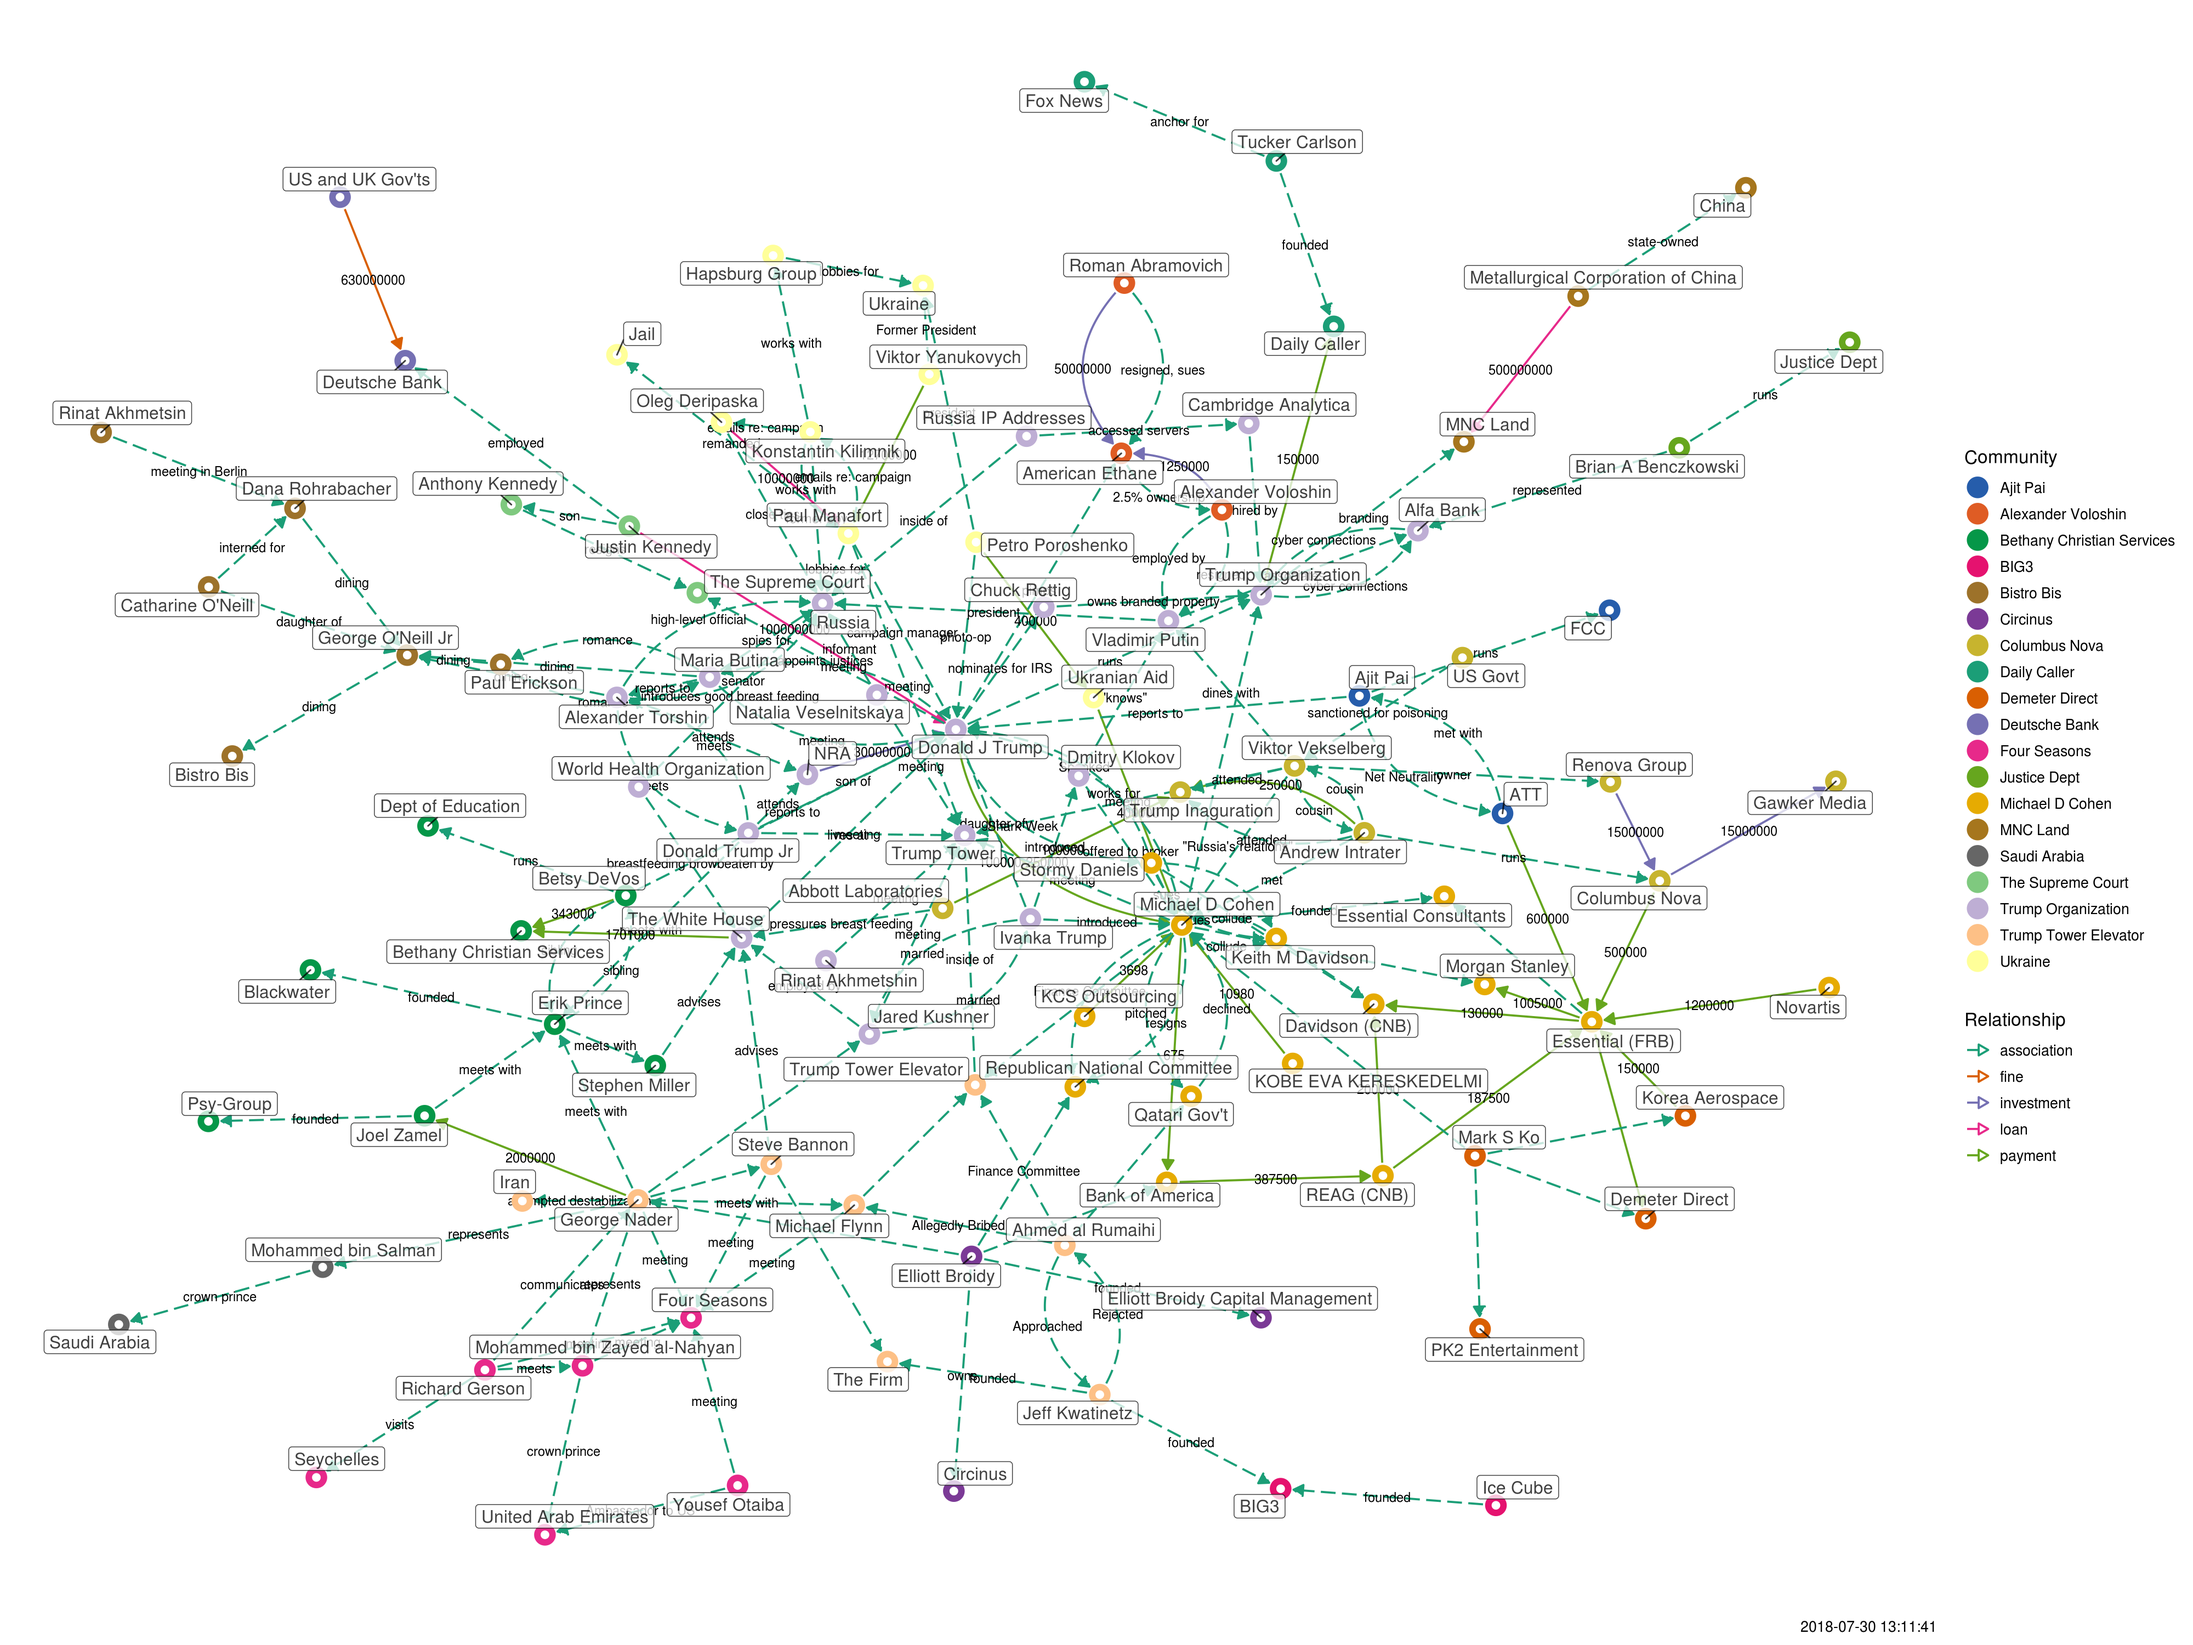
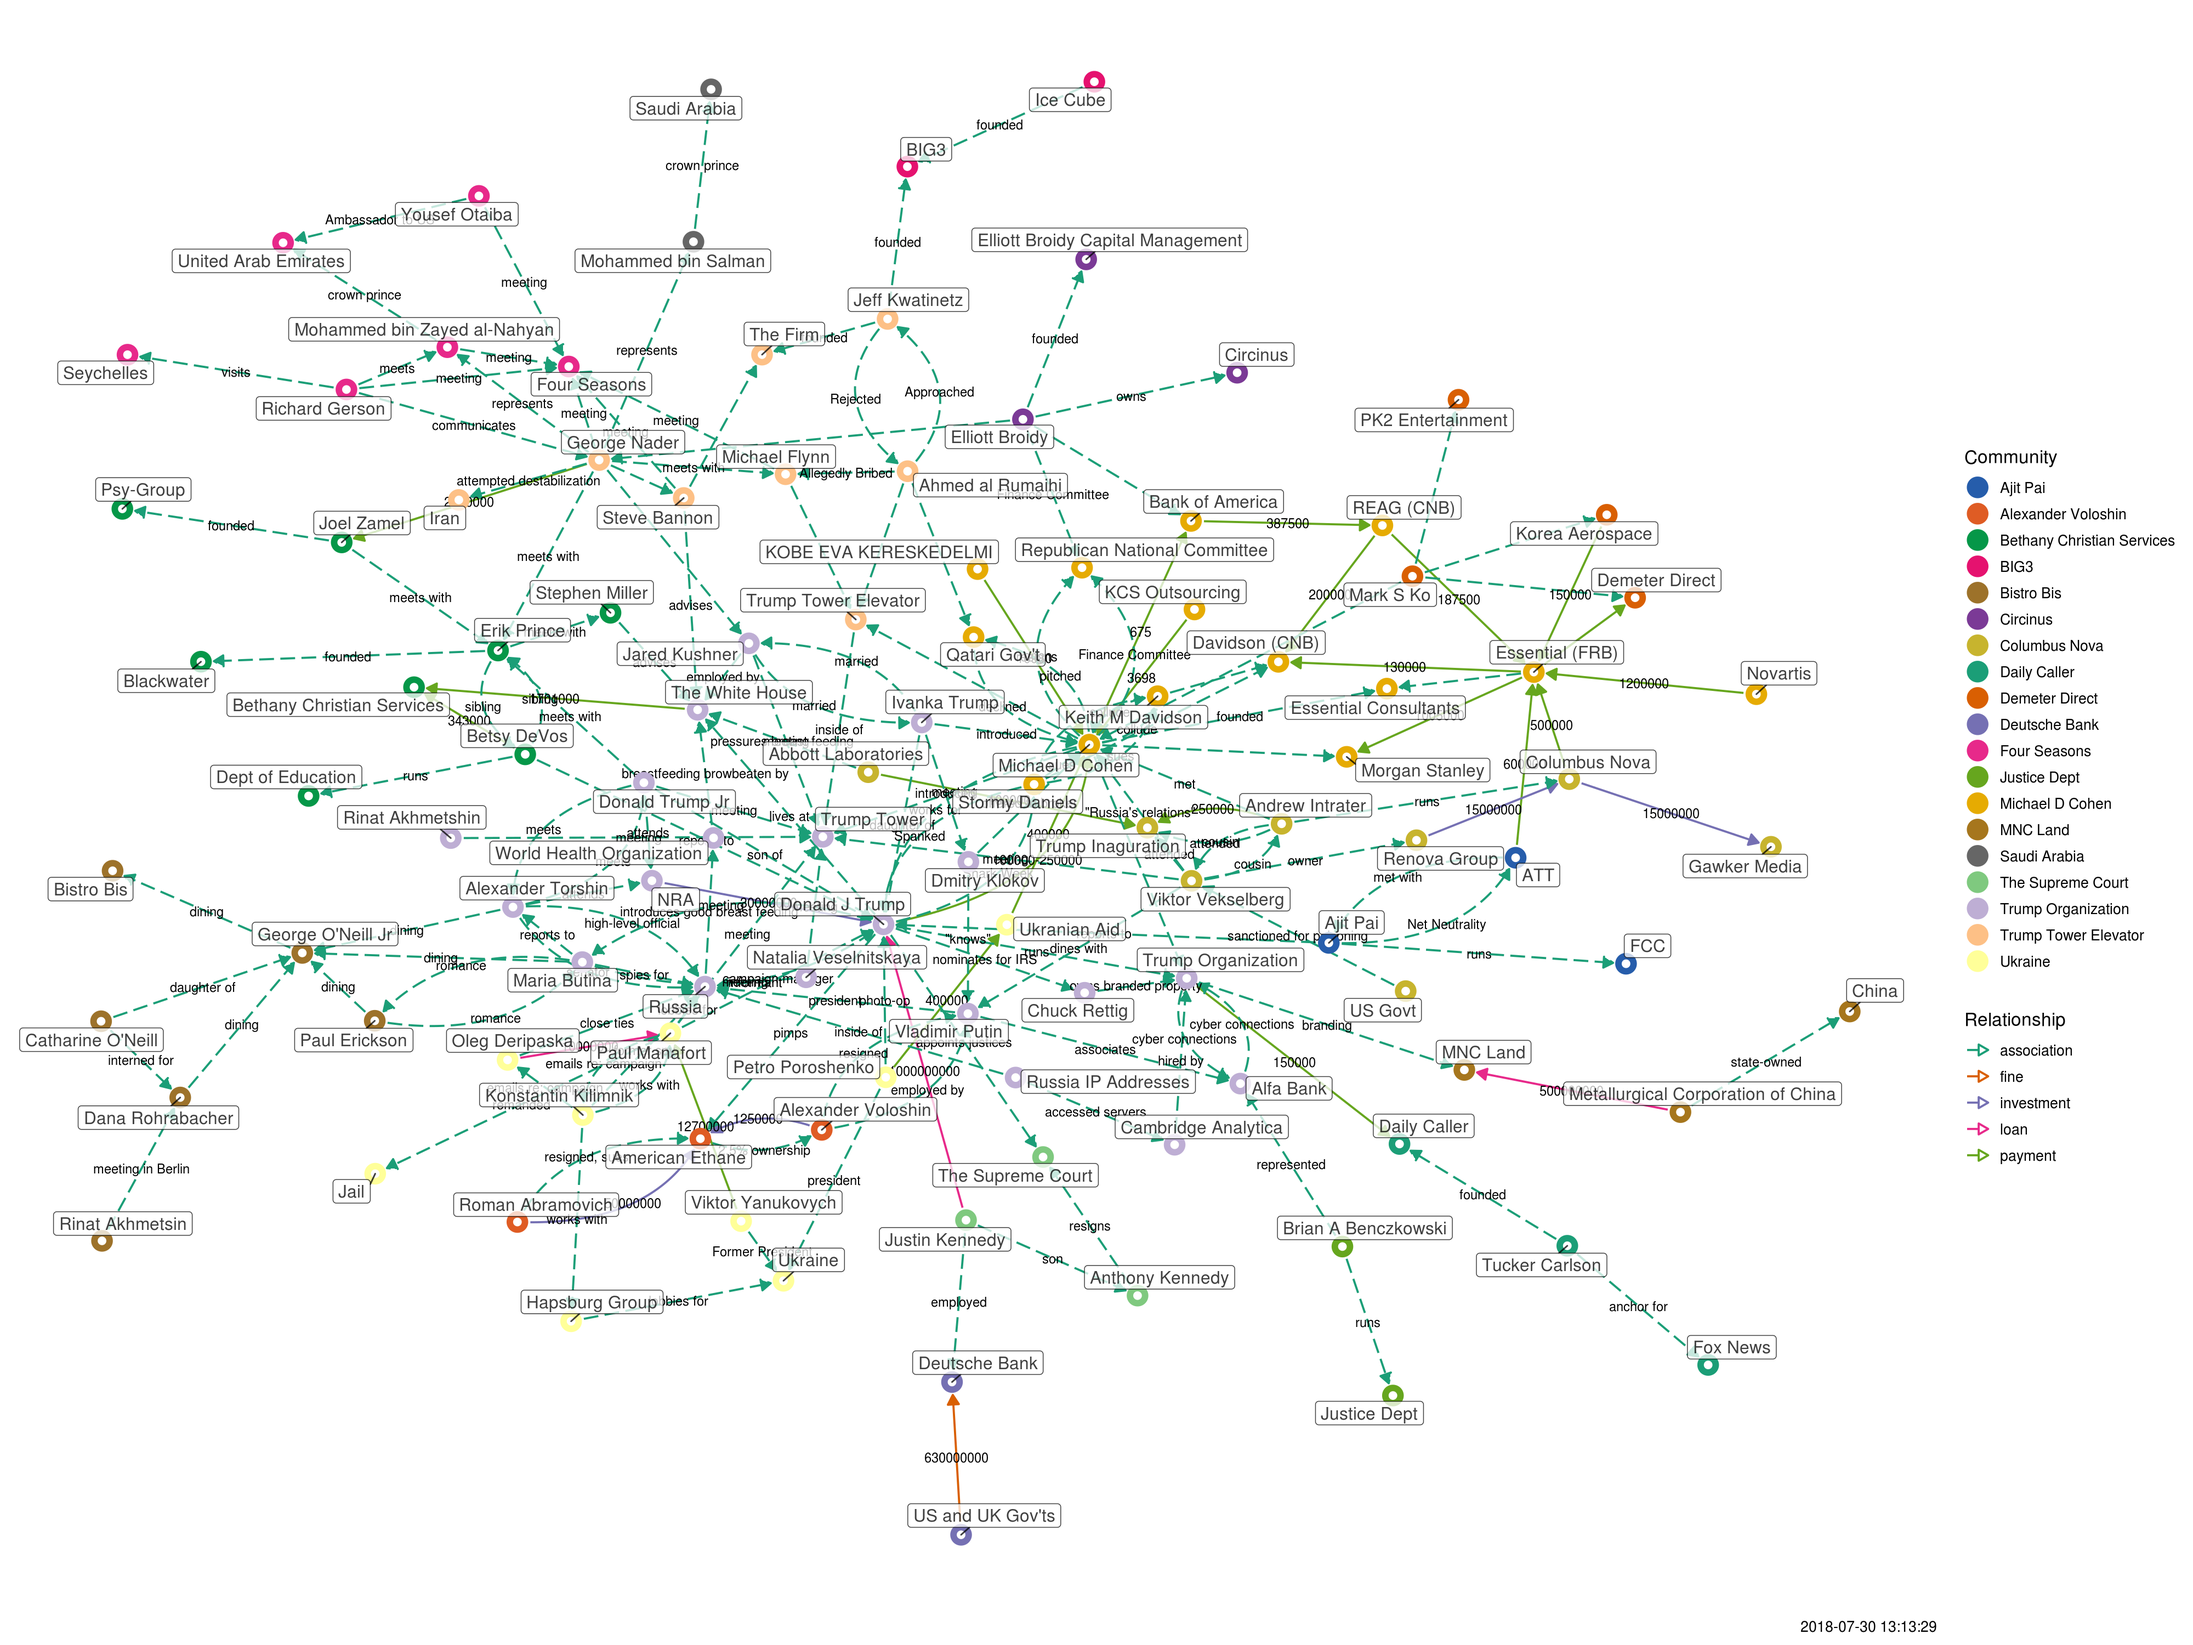
updated

diff --git a/docs/tangled-d3.html b/docs/tangled-d3.html
@@ -9,11 +9,11 @@
 </head>
 <body style="background-color: white;">
 <div id="htmlwidget_container">
-<div id="htmlwidget-cee62667912ef380667b" class="forceNetwork html-widget" style="width:960px;height:500px;">
+<div id="htmlwidget-7b728cc30008b709caf0" class="forceNetwork html-widget" style="width:960px;height:500px;">
 
 </div>
 </div>
-<script type="application/json" data-for="htmlwidget-cee62667912ef380667b">{"x":{"links":{"source":[0,1,2,3,4,5,6,6,7,8,8,8,9,10,11,12,13,14,15,16,17,18,19,20,20,21,22,23,24,25,26,27,8,15,2,2,28,2,28,28,2,29,15,30,31,31,28,32,32,32,32,15,7,7,31,15,15,33,33,33,33,7,15,34,35,35,36,37,36,36,38,35,35,39,39,39,3,38,32,9,9,40,40,41,41,15,42,43,43,9,44,45,46,9,9,47,48,46,49,45,9,9,44,46,5,5,5,24,14,19,19,15,28,28,50,51,51,51,51,9,48,34,38,52,52,41,41,53,53,31,31,15,30,54,55,54,56,57,56,54,56,56,44,40,58,59,59,27,18,56,54,7,60,15,61,10,10,7,0,62,63,7,1,1,64,22,65,65,57,66,24,67,68,68,69,7,69,69,70,69,71,70,44,44,70,70,70,69,72,71,73,73,74,75],"target":[76,64,76,8,20,77,8,78,15,79,80,81,45,7,15,15,8,82,4,8,7,56,25,79,8,6,64,77,83,15,84,56,85,85,6,15,21,28,2,76,76,28,7,79,79,30,57,86,87,88,4,81,23,31,7,24,86,80,89,15,13,24,50,50,50,36,35,90,91,90,91,42,34,3,7,92,39,23,9,38,40,23,41,40,7,42,15,83,93,46,46,46,94,48,47,95,96,49,23,97,34,98,7,5,46,99,7,82,100,7,101,102,102,15,102,103,48,9,104,104,104,104,104,104,96,15,53,15,57,30,15,30,15,55,101,56,63,63,7,63,105,102,102,102,102,102,63,101,63,54,18,60,24,86,106,61,84,106,23,23,62,64,57,57,1,64,66,107,66,24,66,24,67,63,7,69,63,70,63,71,69,44,70,17,17,63,75,75,75,75,75,72,72,108],"colour":["red","blue","red","red","red","red","red","blue","red","red","red","red","red","blue","red","red","red","blue","red","red","blue","blue","red","red","red","blue","blue","red","red","red","blue","red","blue","blue","blue","blue","blue","blue","blue","blue","blue","blue","blue","blue","blue","blue","blue","blue","blue","blue","blue","blue","blue","blue","blue","blue","blue","blue","blue","blue","blue","blue","blue","blue","blue","blue","blue","blue","blue","blue","blue","blue","blue","blue","blue","blue","blue","blue","blue","blue","blue","blue","blue","blue","blue","blue","blue","blue","blue","blue","blue","blue","blue","blue","blue","blue","blue","blue","blue","blue","blue","blue","blue","blue","blue","blue","blue","blue","blue","blue","blue","blue","blue","blue","blue","blue","blue","blue","blue","blue","blue","blue","blue","blue","blue","blue","blue","blue","blue","blue","blue","blue","blue","blue","blue","blue","blue","blue","blue","blue","blue","blue","blue","blue","blue","blue","blue","blue","blue","blue","blue","blue","blue","blue","blue","blue","blue","blue","blue","blue","blue","blue","blue","blue","blue","blue","blue","blue","blue","blue","blue","blue","blue","blue","blue","blue","blue","blue","blue","blue","blue","blue","blue","blue","blue","blue","blue","blue","blue","blue","blue","blue","blue","blue"]},"nodes":{"name":["Abbott Laboratories","Alexander Voloshin","Andrew Intrater","ATT","Bank of America","Betsy DeVos","Columbus Nova","Donald J Trump","Essential (FRB)","George Nader","Justin Kennedy","KCS Outsourcing","KOBE EVA KERESKEDELMI","Korea Aerospace","Metallurgical Corporation of China","Michael D Cohen","Novartis","NRA","Oleg Deripaska","Petro Poroshenko","REAG (CNB)","Renova Group","Roman Abramovich","The White House","Trump Organization","Ukranian Aid","US and UK Gov'ts","Viktor Yanukovych","Viktor Vekselberg","US Govt","Keith M Davidson","Stormy Daniels","Elliott Broidy","Mark S Ko","Michael Flynn","Ahmed al Rumaihi","Jeff Kwatinetz","Ice Cube","Steve Bannon","Ajit Pai","Jared Kushner","Ivanka Trump","Qatari Gov't","Tucker Carlson","Donald Trump Jr","Joel Zamel","Erik Prince","Mohammed bin Salman","Mohammed bin Zayed al-Nahyan","Stephen Miller","Trump Tower Elevator","Richard Gerson","Yousef Otaiba","Dmitry Klokov","Konstantin Kilimnik","Hapsburg Group","Paul Manafort","Vladimir Putin","Rinat Akhmetshin","Natalia Veselnitskaya","Chuck Rettig","Anthony Kennedy","World Health Organization","Russia","American Ethane","Brian A Benczkowski","Alfa Bank","Cambridge Analytica","Russia IP Addresses","Maria Butina","Alexander Torshin","Paul Erickson","Dana Rohrabacher","Catharine O'Neill","Rinat Akhmetsin","George O'Neill Jr","Trump Inaguration","Bethany Christian Services","Gawker Media","Davidson (CNB)","Demeter Direct","Morgan Stanley","MNC Land","Daily Caller","Deutsche Bank","Essential Consultants","Republican National Committee","Elliott Broidy Capital Management","Circinus","PK2 Entertainment","BIG3","The Firm","FCC","Fox News","Blackwater","Saudi Arabia","United Arab Emirates","Psy-Group","Iran","Dept of Education","China","Ukraine","Trump Tower","Seychelles","Four Seasons","Jail","The Supreme Court","Justice Dept","Bistro Bis"],"group":["5","14","5","12","2","4","5","1","2","6","13","2","2","9","10","2","2","1","3","3","2","5","14","1","1","3","19","3","5","5","2","2","15","9","6","6","6","18","6","12","1","1","2","11","1","4","4","16","8","4","6","8","8","1","3","3","3","1","1","1","1","13","1","1","14","17","1","1","1","1","1","7","7","7","7","7","5","4","5","2","9","2","10","11","19","2","2","15","15","9","18","6","12","11","4","16","8","4","6","4","10","3","1","8","8","3","13","17","7"]},"options":{"NodeID":"name","Group":"group","colourScale":"d3.scaleOrdinal(d3.schemeCategory20);","fontSize":20,"fontFamily":"serif","clickTextSize":50,"linkDistance":50,"linkWidth":"function(d) { return Math.sqrt(d.value); }","charge":-100,"opacity":1,"zoom":true,"legend":false,"arrows":false,"nodesize":false,"radiusCalculation":" Math.sqrt(d.nodesize)+6","bounded":false,"opacityNoHover":1,"clickAction":null}},"evals":[],"jsHooks":[]}</script>
-<script type="application/htmlwidget-sizing" data-for="htmlwidget-cee62667912ef380667b">{"viewer":{"width":450,"height":350,"padding":10,"fill":true},"browser":{"width":960,"height":500,"padding":10,"fill":true}}</script>
+<script type="application/json" data-for="htmlwidget-7b728cc30008b709caf0">{"x":{"links":{"source":[0,1,2,3,4,5,6,6,7,8,8,8,9,10,11,12,13,14,15,16,17,18,19,20,20,21,22,23,24,25,26,27,8,15,2,2,28,2,28,28,2,29,15,30,31,31,28,32,32,32,32,15,7,7,31,15,15,33,33,33,33,7,15,34,35,35,36,37,36,36,38,35,35,39,39,39,3,38,32,9,9,40,40,41,41,15,42,43,43,9,44,45,46,9,9,47,48,46,49,45,9,9,44,46,5,5,5,24,14,19,19,15,28,28,50,51,51,51,51,9,48,34,38,52,52,41,41,53,53,31,31,15,30,54,55,54,56,57,56,54,56,56,44,40,58,59,59,27,18,56,54,7,60,15,61,10,10,7,0,62,63,7,1,1,64,22,65,65,57,66,24,67,68,68,69,7,69,69,70,69,71,70,44,44,70,70,70,69,72,71,73,73,74,75],"target":[76,64,76,8,20,77,8,78,15,79,80,81,45,7,15,15,8,82,4,8,7,56,25,79,8,6,64,77,83,15,84,56,85,85,6,15,21,28,2,76,76,28,7,79,79,30,57,86,87,88,4,81,23,31,7,24,86,80,89,15,13,24,50,50,50,36,35,90,91,90,91,42,34,3,7,92,39,23,9,38,40,23,41,40,7,42,15,83,93,46,46,46,94,48,47,95,96,49,23,97,34,98,7,5,46,99,7,82,100,7,101,102,102,15,102,103,48,9,104,104,104,104,104,104,96,15,53,15,57,30,15,30,15,55,101,56,63,63,7,63,105,102,102,102,102,102,63,101,63,54,18,60,24,86,106,61,84,106,23,23,62,64,57,57,1,64,66,107,66,24,66,24,67,63,7,69,63,70,63,71,69,44,70,17,17,63,75,75,75,75,75,72,72,108],"colour":["red","blue","red","red","red","red","red","blue","red","red","red","red","red","blue","red","red","red","blue","red","red","blue","blue","red","red","red","blue","blue","red","red","red","blue","red","blue","blue","blue","blue","blue","blue","blue","blue","blue","blue","blue","blue","blue","blue","blue","blue","blue","blue","blue","blue","blue","blue","blue","blue","blue","blue","blue","blue","blue","blue","blue","blue","blue","blue","blue","blue","blue","blue","blue","blue","blue","blue","blue","blue","blue","blue","blue","blue","blue","blue","blue","blue","blue","blue","blue","blue","blue","blue","blue","blue","blue","blue","blue","blue","blue","blue","blue","blue","blue","blue","blue","blue","blue","blue","blue","blue","blue","blue","blue","blue","blue","blue","blue","blue","blue","blue","blue","blue","blue","blue","blue","blue","blue","blue","blue","blue","blue","blue","blue","blue","blue","blue","blue","blue","blue","blue","blue","blue","blue","blue","blue","blue","blue","blue","blue","blue","blue","blue","blue","blue","blue","blue","blue","blue","blue","blue","blue","blue","blue","blue","blue","blue","blue","blue","blue","blue","blue","blue","blue","blue","blue","blue","blue","blue","blue","blue","blue","blue","blue","blue","blue","blue","blue","blue","blue","blue","blue","blue","blue","blue","blue","blue"]},"nodes":{"name":["Abbott Laboratories","Alexander Voloshin","Andrew Intrater","ATT","Bank of America","Betsy DeVos","Columbus Nova","Donald J Trump","Essential (FRB)","George Nader","Justin Kennedy","KCS Outsourcing","KOBE EVA KERESKEDELMI","Korea Aerospace","Metallurgical Corporation of China","Michael D Cohen","Novartis","NRA","Oleg Deripaska","Petro Poroshenko","REAG (CNB)","Renova Group","Roman Abramovich","The White House","Trump Organization","Ukranian Aid","US and UK Gov'ts","Viktor Yanukovych","Viktor Vekselberg","US Govt","Keith M Davidson","Stormy Daniels","Elliott Broidy","Mark S Ko","Michael Flynn","Ahmed al Rumaihi","Jeff Kwatinetz","Ice Cube","Steve Bannon","Ajit Pai","Jared Kushner","Ivanka Trump","Qatari Gov't","Tucker Carlson","Donald Trump Jr","Joel Zamel","Erik Prince","Mohammed bin Salman","Mohammed bin Zayed al-Nahyan","Stephen Miller","Trump Tower Elevator","Richard Gerson","Yousef Otaiba","Dmitry Klokov","Konstantin Kilimnik","Hapsburg Group","Paul Manafort","Vladimir Putin","Rinat Akhmetshin","Natalia Veselnitskaya","Chuck Rettig","Anthony Kennedy","World Health Organization","Russia","American Ethane","Brian A Benczkowski","Alfa Bank","Cambridge Analytica","Russia IP Addresses","Maria Butina","Alexander Torshin","Paul Erickson","Dana Rohrabacher","Catharine O'Neill","Rinat Akhmetsin","George O'Neill Jr","Trump Inaguration","Bethany Christian Services","Gawker Media","Davidson (CNB)","Demeter Direct","Morgan Stanley","MNC Land","Daily Caller","Deutsche Bank","Essential Consultants","Republican National Committee","Elliott Broidy Capital Management","Circinus","PK2 Entertainment","BIG3","The Firm","FCC","Fox News","Blackwater","Saudi Arabia","United Arab Emirates","Psy-Group","Iran","Dept of Education","China","Ukraine","Trump Tower","Seychelles","Four Seasons","Jail","The Supreme Court","Justice Dept","Bistro Bis"],"group":["5","14","5","12","2","4","5","1","2","6","13","2","2","9","10","2","2","1","3","3","2","5","14","1","1","3","19","3","5","5","2","2","15","9","6","6","6","18","6","12","1","1","2","11","1","4","4","16","8","4","6","8","8","1","3","3","3","1","1","1","1","13","1","1","14","17","1","1","1","1","1","7","7","7","7","7","5","4","5","2","9","2","10","11","19","2","2","15","15","9","18","6","12","11","4","16","8","4","6","4","10","3","1","8","8","3","13","17","7"]},"options":{"NodeID":"name","Group":"group","colourScale":"d3.scaleOrdinal(d3.schemeCategory20);","fontSize":20,"fontFamily":"serif","clickTextSize":50,"linkDistance":50,"linkWidth":"function(d) { return Math.sqrt(d.value); }","charge":-100,"opacity":1,"zoom":true,"legend":false,"arrows":false,"nodesize":false,"radiusCalculation":" Math.sqrt(d.nodesize)+6","bounded":false,"opacityNoHover":1,"clickAction":null}},"evals":[],"jsHooks":[]}</script>
+<script type="application/htmlwidget-sizing" data-for="htmlwidget-7b728cc30008b709caf0">{"viewer":{"width":450,"height":350,"padding":10,"fill":true},"browser":{"width":960,"height":500,"padding":10,"fill":true}}</script>
 </body>
 </html>
